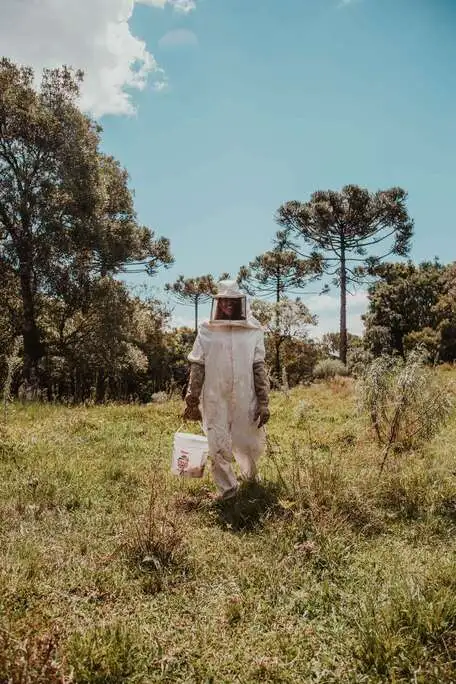
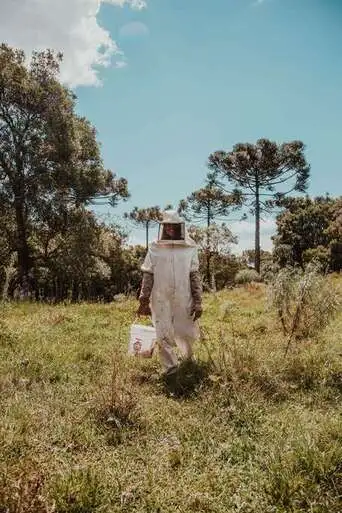
Replace image on thankyou page with smaller version for mobiles

diff --git a/the-honey-bee.html b/the-honey-bee.html
@@ -88,10 +88,8 @@
       <br />
       <div class="bee-type-text">
         <p>
-          The queen is the dominant female in the hive: if she is calm,
-          aggressive, or something in between, the other bees take their cue
-          from her. She is the only bee capable of laying eggs to produce both
-          worker and drone brood and, without a queen, a colony will die.
+          The queen is the dominant bee in the hive and the other bees reflect her tone: if she is calm, aggressive, busy, or a bit slow, her bees will be too.  
+          She is the only bee capable of laying eggs to produce worker and drone brood and, without a queen, a colony will die.
         </p>
         <br />
         <p>
@@ -101,13 +99,6 @@
           bees. When the colony senses this, they will either kill her or drive
           her out of the hive and replace her with a new queen bred from a
           worker bee egg.
-        </p>
-        <br />
-        <p>
-          While it is true to say that the queen is the dominant female, the
-          exact relationship between the queen and the worker bees is complex.
-          As far as we can tell, the queen is indeed in charge, but only as long
-          as the worker bees allow her to be.
         </p>
         <br />
         <h3>Pass Notes</h3>
@@ -156,9 +147,20 @@
     </section>
     <br />
     <section>
+        <h2 class="bee-page-headers">Queens and Workers: who's in charge?</h2>
+        <div class="bee-type-text">
+            <p>While it is true to say that the queen is the dominant bee, the
+                exact relationship between the queen and the worker bees is complex.
+                As far as we can tell, the queen is indeed in charge, but only as long
+                as the worker bees allow her to be. The worker bees influence, for example, when and how many eggs a
+                queen should lay, whether she should lay eggs at all, and whether the colony should swarm. So influence runs in both directions between queens and workers.
+            </p>    
+    </div>
+        <br />
+    </section>
+    <section>
       <!--Worker bees-->
-      
-        <h2 class="bee-page-headers">Worker Bees</h2>
+       <h2 class="bee-page-headers">Worker Bees</h2>
         <div class="bee-type-img">
           <img
             src="assets/images/worker-bee.webp"

diff --git a/form-thank-you-page.html b/form-thank-you-page.html
@@ -66,11 +66,11 @@
           alt="A beekeeper smiling into the camera"
         />
       </div>
-      <br/>
-     
+      <br />
+
       <section id="thank-you-message">
         <div id="thankyou-text">
-            <br />
+          <br />
           <h2>Thank you for your message!</h2>
           <p>
             We will be in touch soon. Click <a href="index.html">here</a> to
